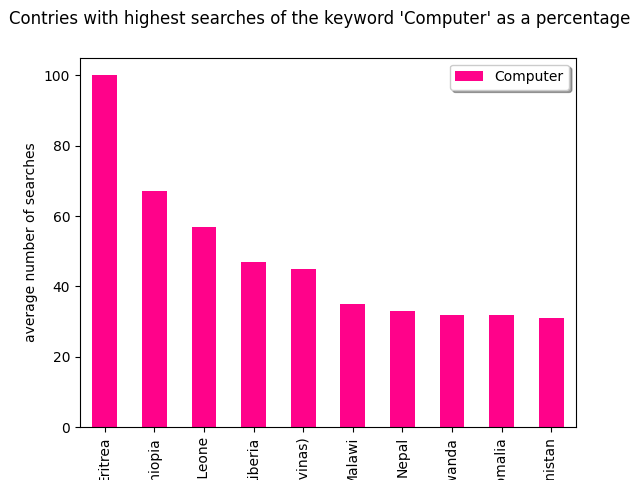
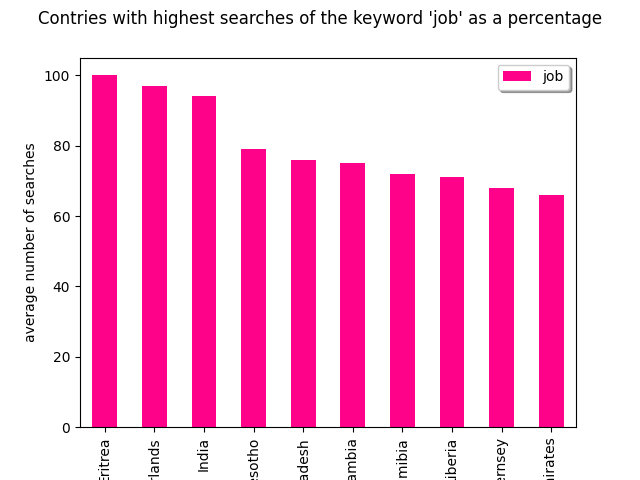
styled pandas to html tables

diff --git a/templates/index.html b/templates/index.html
@@ -45,19 +45,19 @@
                  </p>
                 <div class="col">
                     <form class="form-inline  ">
-                        <input class="form-control mr-sm-4 col-md-4" type="search" placeholder="Enter a Keyword to Search" aria-label="Search" name='searchword'>
+                        <input class="form-control mr-sm-4 col-md-4" type="search" placeholder="Enter a Keyword to Search" aria-label="Search" name='searchword' onchange="changing()">
                         <select id="inputState" name="inputState" class="form-control mr-sm-4 m4-2" onChange="update()">
-                            {% for onecountry in al %}
-                            <option value= "{{onecountry}}" SELECTED>{{ onecountry }}</option>"
-                            {% endfor %}
-                          </select>
-                          <select id="period" name="period" class="form-control mr-sm-4 m4-2" onchange="change()">
-                            {% for oneperiod in period %}
-                            <option value= "{{oneperiod}}" SELECTED>{{ oneperiod }}</option>"
-                            {% endfor %}
-                          </select>
-                        <button class="btn btn-outline-success my-2 col-md-4 my-sm-0" type="submit">Search <i class="fas fa-search"></i></button>
-                        <script type="text/javascript">
+                          {% for onecountry in al %}
+                            <option value= "{{onecountry}}" SELECTED>{{ onecountry }}</option>
+                          {% endfor %}
+                        </select>
+                        <select id="period" name="period" class="form-control mr-sm-4 m4-2" onchange="change()">
+                          {% for oneperiod in period %}
+                              <option value= "{{oneperiod}}" SELECTED>{{ oneperiod }}</option>
+                          {% endfor %}
+                        </select>
+                        <button class="btn btn-outline-success my-2 col-md-4 my-sm-0" type="submit" onclick="changing();">Search <i class="fas fa-search"></i></button>
+                        <!-- <script type="text/javascript">
                           function update() {
                               var select = document.getElementById('inputState');
                               var option = select.options[select.selectedIndex];
@@ -74,7 +74,8 @@
                           }
               
                           change();
-                      </script>
+                      </script> -->
+                      <!-- <input type="text" id="textt" name="output"> -->
                       </form>
                 </div>
             </div>
@@ -250,11 +251,12 @@
     <!-- <h5 class="card-title">Conclusions basing on the table:</h5> -->
     <b>Conclusions basing on the table: </b>
     <p>Your country has the most popular youtuber "{{YoutuberName}}" creating "{{ContentType}}". You can as well create "{{ContentType}}" type of content</p>
+    <p>{{searchword}}</p>
   </div>
 </div>
 
 
-<script>
+<!-- <script>
 
 $(document).ready(function() {
     $('').DataTable( {
@@ -263,5 +265,31 @@ $(document).ready(function() {
         "paging":         false
     } );
 } );
+</script> -->
+<script type="text/javascript">
+  function update() {
+      var select = document.getElementById('inputState');
+      var option = select.options[select.selectedIndex];
+
+      document.getElementById('text').value = option.text;
+  }
+
+  update();
+  function change() {
+      var select = document.getElementById('period');
+      var option = select.options[select.selectedIndex];
+
+      document.getElementById('text').value = option.text;
+  }
+
+  change();
+  function changing() {
+      var select = document.getElementById('searchword');
+      var option = select.options[select.selectedIndex];
+
+      document.getElementById('textt').value = option.text;
+  }
+
+  changing();
 </script>
 {% endblock %}

diff --git a/app.py b/app.py
@@ -35,6 +35,7 @@ class Youtubers(db.Model):
         return '<Youtuber %r>' % self.YoutuberName
 
 @app.route("/",methods=['GET', 'POST'])
+
 def index():
 
     results = []
@@ -62,24 +63,47 @@ def index():
     #     d=(a['text'])
     #     period.append(d)
     period=[(a['text']) for a in timeframes]
+ 
+    # if request.method=='POST': 
+       
+    #     searchword = request.form.get("searchword")
+    #     searchword=searchword.capitalize()
+    #     searchword=searchword.replace(" ","%20")
         
-    if request.method=='POST':        
-        searchword = request.form.get("searchword")
-        searchword=searchword.capitalize()
-        searchword=searchword.replace(" ","%20")
+    #     my_countr= request.form.get("inputState")
+    #     x=[item for item in results if item["text"] == my_countr][0]
+    #     codes = x["key"]
+    #     codes=codes.upper()
+    #     selectedtime= request.form.get("period")
+    #     y=[item for item in timeframes if item["text"] == selectedtime ][0]
+    #     timee = y["key"]
 
-        my_country= request.form.get("inputState")
-        x=[item for item in results if item["text"] == country][0]
-        codes = x["key"]
-        codes=codes.upper()
-        selectedtime= request.form.get("period")
-        y=[item for item in timeframes if item["text"] == selectedtime ][0]
-        timee = y["key"]
 
+    searchword = request.form.get("output") if request.method=='POST' else ''
+    searchword=searchword.capitalize()
+    searchword=searchword.replace(" ","%20")
+    
+    # my_countr= request.form.get("inputState") if request.method=='POST' else ''
+    # x=[item for item in results if item["text"] == my_countr][0]
+    # codes = x["key"]
+    # codes=codes.upper()
+    # selectedtime= request.form.get("period") if request.method=='POST' else ''
+    # y=[item for item in timeframes if item["text"] == selectedtime ][0]
+    # timee = y["key"]
+
+    # # test
+    # searchword=[(request.form.get("searchword")).capitalize().replace(" ","%20") if (request.method=='POST') else ""]
+    # my_country=[(request.form.get("inputState")).capitalize() if (request.method=='POST') else ""]
+    # x=[item for item in results if item["text"] == my_country][0]
+    # codes = x["key"]
+    # codes=codes.upper()
+    # selectedtime=[(request.form.get("period")) if (request.method=='POST') else ""]
+    # y=[item for item in timeframes if item["text"] == selectedtime ][0]
+    # timee = y["key"]
     
     
     # states=state.pop()
-    keyword=['Computer']
+    keyword=['job']
     # extract data about keywords
     # your_input=str(input('Enter the keyword: '))
     # your_input='Computer'
@@ -90,9 +114,9 @@ def index():
 
     # pytrends.build_payload(keyword,timeframe=f'2020-02-26 {date.today()}', gprop = 'youtube', geo='AU')
     
-    pytrends.build_payload(keyword,timeframe='today 5-y', gprop = 'youtube', geo='AU')
+    pytrends.build_payload(keyword,timeframe='today 5-y', gprop = 'youtube', geo='')
     # word=keyword.pop()
-    word='Computer'
+    word='job'
     
     # specify and get data
     data= pytrends.interest_over_time()
@@ -102,7 +126,7 @@ def index():
     # dataa=data.to_dict()
 
     plt.plot(data,label= word)
-   
+
     # add titles
     plt.suptitle("Graphical analysis of keyword searches on youtube as a percentage")
     plt.xlabel('period')
@@ -121,7 +145,7 @@ def index():
     data1.columns=[word]
     # dataa1=data1.to_dict()
 
- 
+
     
     dat2=data1.astype(float).nlargest(10, word)
     #plot bar char with Pandas
@@ -164,14 +188,19 @@ def index():
 
 
     ###NOTE!!!!Let it print "Enter a more valid word in case of error"
+    tables=[data.to_html(classes='data  table table-striped table-bordered table-hover table-condensed text-center', justify='center', header="true")]
+    table1=[data1.to_html(classes='data1 table table-striped table-bordered table-hover table-condensed text-center', justify='center', header="true")]
+    top_related_query=[top_related_queries.to_html(classes='data table table-striped table-bordered table-hover table-condensed text-center', justify='center', header="true")if( top_related_queries is not None) else "No related keyword in your country"]
+    rising_related_query=[rising_related_queries.to_html(classes='data table table-striped table-bordered table-hover table-condensed text-center', justify='center', header="true") if(rising_related_queries is not None) else "No related keyword in your country"]
+    table3=[df.to_html(classes='data3 table table-striped table-bordered table-hover table-condensed text-center', justify='center')]
 
-    return render_template('index.html',al=al,word=word,one=one,two=two,three=three,Country=[],
-    table1=[data1.to_html(classes='data1 table', header="true")],four=four,period=period,
-    YoutuberName=YoutuberName,ContentType=ContentType,tables=[data.to_html(classes='data  table', header="true")],
-    top_related_query=[top_related_queries.to_html(classes='data table', header="true")if( top_related_queries is not None) else "No related keyword in your country"],
-    rising_related_query=[rising_related_queries.to_html(classes='data table', header="true") if(rising_related_queries is not None) else "No related keyword in your country"],
-    url='/static/images/plot.png',
-    url1='/static/images/plot1.png',table3=[df.to_html(classes='data3 table')])
+
+    # return render_template('index.html')
+
+    return render_template('index.html',al=al,word=word,one=one,two=two,three=three,
+    four=four,period=period,tables=tables,table1=table1,top_related_query=top_related_query,
+    rising_related_query= rising_related_query,YoutuberName=YoutuberName,ContentType=ContentType,
+    url='/static/images/plot.png',url1='/static/images/plot1.png',table3=table3)
 
 if __name__ =='__main__':
 
